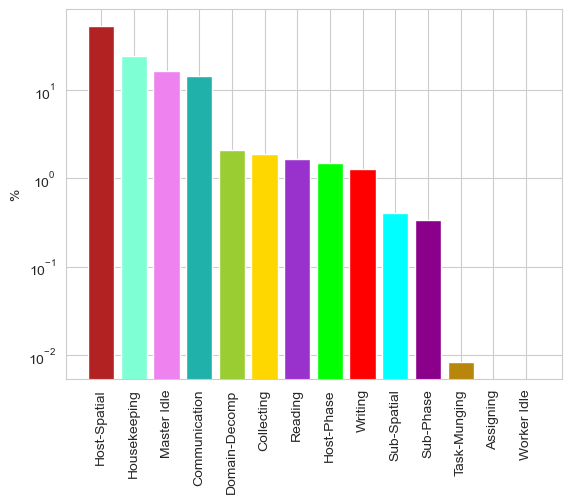
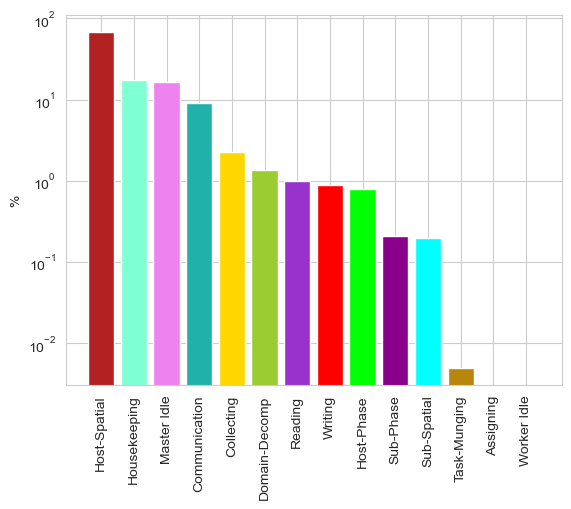
Removed batching of particle on phase space search

diff --git a/core/kdhalofinder_mpi.py b/core/kdhalofinder_mpi.py
@@ -188,102 +188,84 @@ def find_subhalos(halo_pos, sub_linkl):
     # faster queries (documentation recommends compact_nodes=True and balanced_tree=True)***
     tree = cKDTree(halo_pos, leafsize=16, compact_nodes=False, balanced_tree=False)
 
-    if npart > 10000:
+    query = tree.query_ball_point(halo_pos, r=sub_linkl)
 
-        # Define an array of limits for looping defined by the batchsize
-        limits = np.linspace(0, npart, int(npart / 10000) + 1, dtype=int)
+    # Loop through query results
+    for query_part_inds in iter(query):
 
-    else:
+        # Convert the particle index list to an array for ease of use.
+        query_part_inds = np.array(query_part_inds, copy=False, dtype=int)
 
-        limits = [0, npart]
+        # Assert that the query particle is returned by the tree query. Otherwise the program fails
+        assert query_part_inds.size != 0, 'Must always return particle that you are sitting on'
 
-    # ===================== Sort Through The Results Assigning Subhalos =====================
+        # Find only the particles not already in a halo
+        new_parts = query_part_inds[np.where(part_subhaloids[query_part_inds] == -1)]
 
-    for ind, limit in enumerate(limits[:-1]):
+        # If only one particle is returned by the query and it is new it is a 'single particle subhalo'
+        if new_parts.size == query_part_inds.size == 1:
 
-        query_parts = halo_pos[limit:limits[ind + 1]]
+            # Assign the 'single particle subhalo' subhalo ID to the particle
+            part_subhaloids[new_parts] = -2
 
-        if query_parts.size == 0:
-            continue
+        # If all particles are new increment the subhalo ID and assign a new subhalo ID
+        elif new_parts.size == query_part_inds.size:
 
-        query = tree.query_ball_point(query_parts, r=sub_linkl)
+            # Increment the subhalo ID by 1 (initialise new halo)
+            isubhaloid += 1
 
-        # Loop through query results
-        for query_part_inds in iter(query):
+            # Assign the subhalo ID to the particles
+            part_subhaloids[new_parts] = isubhaloid
+            assignedsub_parts[isubhaloid] = set(new_parts)
 
-            # Convert the particle index list to an array for ease of use.
-            query_part_inds = np.array(query_part_inds, copy=False, dtype=int)
+            # Assign the final subhalo ID to be the newly assigned subhalo ID
+            final_subhalo_ids[isubhaloid] = isubhaloid
+            linked_subhalos_dict[isubhaloid] = {isubhaloid}
 
-            # Assert that the query particle is returned by the tree query. Otherwise the program fails
-            assert query_part_inds.size != 0, 'Must always return particle that you are sitting on'
+        else:
 
-            # Find only the particles not already in a halo
-            new_parts = query_part_inds[np.where(part_subhaloids[query_part_inds] == -1)]
+            # ===== Get the 'final subhalo ID value' =====
 
-            # If only one particle is returned by the query and it is new it is a 'single particle subhalo'
-            if new_parts.size == query_part_inds.size == 1:
+            # Extract the IDs of subhalos returned by the query
+            contained_subhalos = part_subhaloids[query_part_inds]
 
-                # Assign the 'single particle subhalo' subhalo ID to the particle
-                part_subhaloids[new_parts] = -2
+            # Return only the unique subhalo IDs
+            uni_cont_subhalos = np.unique(contained_subhalos)
 
-            # If all particles are new increment the subhalo ID and assign a new subhalo ID
-            elif new_parts.size == query_part_inds.size:
+            # # Assure no single particles are returned by the query
+            # assert any(uni_cont_subhalos != -2), 'Single particle halos should never be found'
 
-                # Increment the subhalo ID by 1 (initialise new halo)
-                isubhaloid += 1
+            # Remove any unassigned subhalos
+            uni_cont_subhalos = uni_cont_subhalos[np.where(uni_cont_subhalos != -1)]
 
-                # Assign the subhalo ID to the particles
-                part_subhaloids[new_parts] = isubhaloid
-                assignedsub_parts[isubhaloid] = set(new_parts)
+            # If there is only one subhalo ID returned avoid the slower code to combine IDs
+            if uni_cont_subhalos.size == 1:
 
-                # Assign the final subhalo ID to be the newly assigned subhalo ID
-                final_subhalo_ids[isubhaloid] = isubhaloid
-                linked_subhalos_dict[isubhaloid] = {isubhaloid}
+                # Get the list of linked subhalos linked to the current subhalo from the linked subhalo dictionary
+                linked_subhalos = linked_subhalos_dict[uni_cont_subhalos[0]]
 
             else:
 
-                # ===== Get the 'final subhalo ID value' =====
+                # Get all linked subhalos from the dictionary so as to not miss out any subhalos IDs that are linked
+                # but not returned by this particular query
+                linked_subhalos_set = set()  # initialise linked subhalo set
+                linked_subhalos = linked_subhalos_set.union(*[linked_subhalos_dict.get(subhalo)
+                                                              for subhalo in uni_cont_subhalos])
 
-                # Extract the IDs of subhalos returned by the query
-                contained_subhalos = part_subhaloids[query_part_inds]
+            # Find the minimum subhalo ID to make the final subhalo ID
+            final_ID = min(linked_subhalos)
 
-                # Return only the unique subhalo IDs
-                uni_cont_subhalos = np.unique(contained_subhalos)
+            # Assign the linked subhalos to all the entries in the linked subhalos dict
+            linked_subhalos_dict.update(dict.fromkeys(list(linked_subhalos), linked_subhalos))
 
-                # # Assure no single particles are returned by the query
-                # assert any(uni_cont_subhalos != -2), 'Single particle halos should never be found'
+            # Assign the final subhalo array
+            final_subhalo_ids[list(linked_subhalos)] = final_ID
 
-                # Remove any unassigned subhalos
-                uni_cont_subhalos = uni_cont_subhalos[np.where(uni_cont_subhalos != -1)]
+            # Assign new parts to the subhalo IDs with the final ID
+            part_subhaloids[new_parts] = final_ID
 
-                # If there is only one subhalo ID returned avoid the slower code to combine IDs
-                if uni_cont_subhalos.size == 1:
-
-                    # Get the list of linked subhalos linked to the current subhalo from the linked subhalo dictionary
-                    linked_subhalos = linked_subhalos_dict[uni_cont_subhalos[0]]
-
-                else:
-
-                    # Get all linked subhalos from the dictionary so as to not miss out any subhalos IDs that are linked
-                    # but not returned by this particular query
-                    linked_subhalos_set = set()  # initialise linked subhalo set
-                    linked_subhalos = linked_subhalos_set.union(*[linked_subhalos_dict.get(subhalo)
-                                                                  for subhalo in uni_cont_subhalos])
-
-                # Find the minimum subhalo ID to make the final subhalo ID
-                final_ID = min(linked_subhalos)
-
-                # Assign the linked subhalos to all the entries in the linked subhalos dict
-                linked_subhalos_dict.update(dict.fromkeys(list(linked_subhalos), linked_subhalos))
-
-                # Assign the final subhalo array
-                final_subhalo_ids[list(linked_subhalos)] = final_ID
-
-                # Assign new parts to the subhalo IDs with the final ID
-                part_subhaloids[new_parts] = final_ID
-
-                # Assign the new particles to the final ID particles in subhalo dictionary entry
-                assignedsub_parts[final_ID].update(new_parts)
+            # Assign the new particles to the final ID particles in subhalo dictionary entry
+            assignedsub_parts[final_ID].update(new_parts)
 
     # =============== Reassign All Subhalos To Their Final Subhalo ID ===============
 
@@ -328,101 +310,83 @@ def find_phase_space_halos(halo_phases, linkl, vlinkl):
 
     npart = halo_phases.shape[0]
 
-    if npart > 1000:
+    query = halo_tree.query_ball_point(halo_phases, r=np.sqrt(2))
 
-        # Define an array of limits for looping defined by the batchsize
-        limits = np.linspace(0, npart, int(npart / 1000) + 1, dtype=int)
+    # Loop through query results assigning initial halo IDs
+    for query_part_inds in iter(query):
 
-    else:
+        query_part_inds = np.array(query_part_inds, dtype=int)
 
-        limits = [0, npart]
+        # Assert that the query particle is returned by the tree query. Otherwise the program fails
+        # assert query_part_inds.size != 0, 'Must always return particle that you are sitting on'
 
-    # =============== Query the tree ===============
+        # Find only the particles not already in a halo
+        new_parts = query_part_inds[np.where(phase_part_haloids[query_part_inds] < 0)]
 
-    for ind, limit in enumerate(limits[:-1]):
+        # If only one particle is returned by the query and it is new it is a 'single particle halo'
+        if new_parts.size == query_part_inds.size == 1:
 
-        query_phases = halo_phases[limit:limits[ind + 1]]
+            # Assign the 'single particle halo' halo ID to the particle
+            phase_part_haloids[new_parts] = -2
 
-        if query_phases.size == 0:
-            continue
+        # If all particles are new increment the halo ID and assign a new halo
+        elif new_parts.size == query_part_inds.size:
 
-        query = halo_tree.query_ball_point(query_phases, r=np.sqrt(2))
+            # Increment the halo ID by 1 (initialising a new halo)
+            ihaloid += 1
 
-        # Loop through query results assigning initial halo IDs
-        for query_part_inds in iter(query):
+            # Assign the new halo ID to the particles
+            phase_part_haloids[new_parts] = ihaloid
+            phase_assigned_parts[ihaloid] = set(new_parts)
 
-            query_part_inds = np.array(query_part_inds, dtype=int)
+            # Assign the final halo ID to be the newly assigned halo ID
+            final_phasehalo_ids[ihaloid] = ihaloid
+            phase_linked_halos_dict[ihaloid] = {ihaloid}
 
-            # Assert that the query particle is returned by the tree query. Otherwise the program fails
-            # assert query_part_inds.size != 0, 'Must always return particle that you are sitting on'
+        else:
 
-            # Find only the particles not already in a halo
-            new_parts = query_part_inds[np.where(phase_part_haloids[query_part_inds] < 0)]
+            # ===== Get the 'final halo ID value' =====
 
-            # If only one particle is returned by the query and it is new it is a 'single particle halo'
-            if new_parts.size == query_part_inds.size == 1:
+            # Extract the IDs of halos returned by the query
+            contained_halos = phase_part_haloids[query_part_inds]
 
-                # Assign the 'single particle halo' halo ID to the particle
-                phase_part_haloids[new_parts] = -2
+            # Get only the unique halo IDs
+            uni_cont_halos = np.unique(contained_halos)
 
-            # If all particles are new increment the halo ID and assign a new halo
-            elif new_parts.size == query_part_inds.size:
+            # Remove any unassigned halos
+            uni_cont_halos = uni_cont_halos[np.where(uni_cont_halos >= 0)]
 
-                # Increment the halo ID by 1 (initialising a new halo)
-                ihaloid += 1
+            # If there is only one halo ID returned avoid the slower code to combine IDs
+            if uni_cont_halos.size == 1:
 
-                # Assign the new halo ID to the particles
-                phase_part_haloids[new_parts] = ihaloid
-                phase_assigned_parts[ihaloid] = set(new_parts)
+                # Get the list of linked halos linked to the current halo from the linked halo dictionary
+                linked_halos = phase_linked_halos_dict[uni_cont_halos[0]]
 
-                # Assign the final halo ID to be the newly assigned halo ID
-                final_phasehalo_ids[ihaloid] = ihaloid
-                phase_linked_halos_dict[ihaloid] = {ihaloid}
+            elif uni_cont_halos.size == 0:
+                continue
 
             else:
 
-                # ===== Get the 'final halo ID value' =====
+                # Get all the linked halos from dictionary so as to not miss out any halos IDs that are linked
+                # but not returned by this particular query
+                linked_halos_set = set()  # initialise linked halo set
+                linked_halos = linked_halos_set.union(*[phase_linked_halos_dict.get(halo)
+                                                        for halo in uni_cont_halos])
 
-                # Extract the IDs of halos returned by the query
-                contained_halos = phase_part_haloids[query_part_inds]
+            # Find the minimum halo ID to make the final halo ID
+            final_ID = min(linked_halos)
 
-                # Get only the unique halo IDs
-                uni_cont_halos = np.unique(contained_halos)
+            # Assign the linked halos to all the entries in the linked halos dictionary
+            phase_linked_halos_dict.update(dict.fromkeys(list(linked_halos), linked_halos))
 
-                # Remove any unassigned halos
-                uni_cont_halos = uni_cont_halos[np.where(uni_cont_halos >= 0)]
+            # Assign the final halo ID array entries
+            final_phasehalo_ids[list(linked_halos)] = final_ID
 
-                # If there is only one halo ID returned avoid the slower code to combine IDs
-                if uni_cont_halos.size == 1:
+            # Assign new particles to the particle halo IDs array with the final ID
+            phase_part_haloids[new_parts] = final_ID
 
-                    # Get the list of linked halos linked to the current halo from the linked halo dictionary
-                    linked_halos = phase_linked_halos_dict[uni_cont_halos[0]]
-
-                elif uni_cont_halos.size == 0:
-                    continue
-
-                else:
-
-                    # Get all the linked halos from dictionary so as to not miss out any halos IDs that are linked
-                    # but not returned by this particular query
-                    linked_halos_set = set()  # initialise linked halo set
-                    linked_halos = linked_halos_set.union(*[phase_linked_halos_dict.get(halo)
-                                                            for halo in uni_cont_halos])
-
-                # Find the minimum halo ID to make the final halo ID
-                final_ID = min(linked_halos)
-
-                # Assign the linked halos to all the entries in the linked halos dictionary
-                phase_linked_halos_dict.update(dict.fromkeys(list(linked_halos), linked_halos))
-
-                # Assign the final halo ID array entries
-                final_phasehalo_ids[list(linked_halos)] = final_ID
-
-                # Assign new particles to the particle halo IDs array with the final ID
-                phase_part_haloids[new_parts] = final_ID
-
-                # Assign the new particles to the final ID in halo dictionary entry
-                phase_assigned_parts[final_ID].update(new_parts)
+            # Assign the new particles to the final ID in halo dictionary entry
+            phase_assigned_parts[final_ID].update(new_parts)
 
     # =============== Reassign All Halos To Their Final Halo ID ===============
 
@@ -1182,7 +1146,6 @@ def hosthalofinder(snapshot, llcoeff, sub_llcoeff, inputpath, savepath, ini_vlco
 
             haloID = thisTask
             thishalo_pids = halo_pids[thisTask]
-            vlcoeff = vlcoeffs[thisTask]
 
             halo_poss = pos[rank_indices[thishalo_pids], :]
             halo_vels = vel[rank_indices[thishalo_pids], :]
